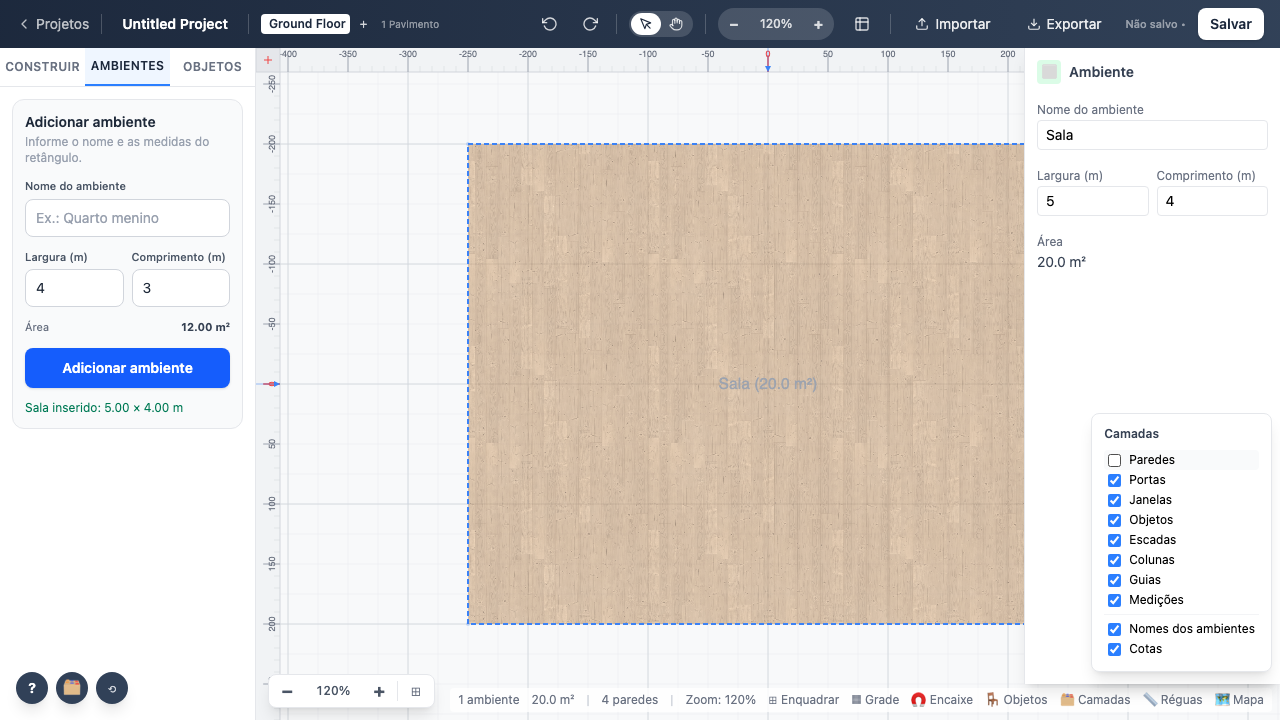
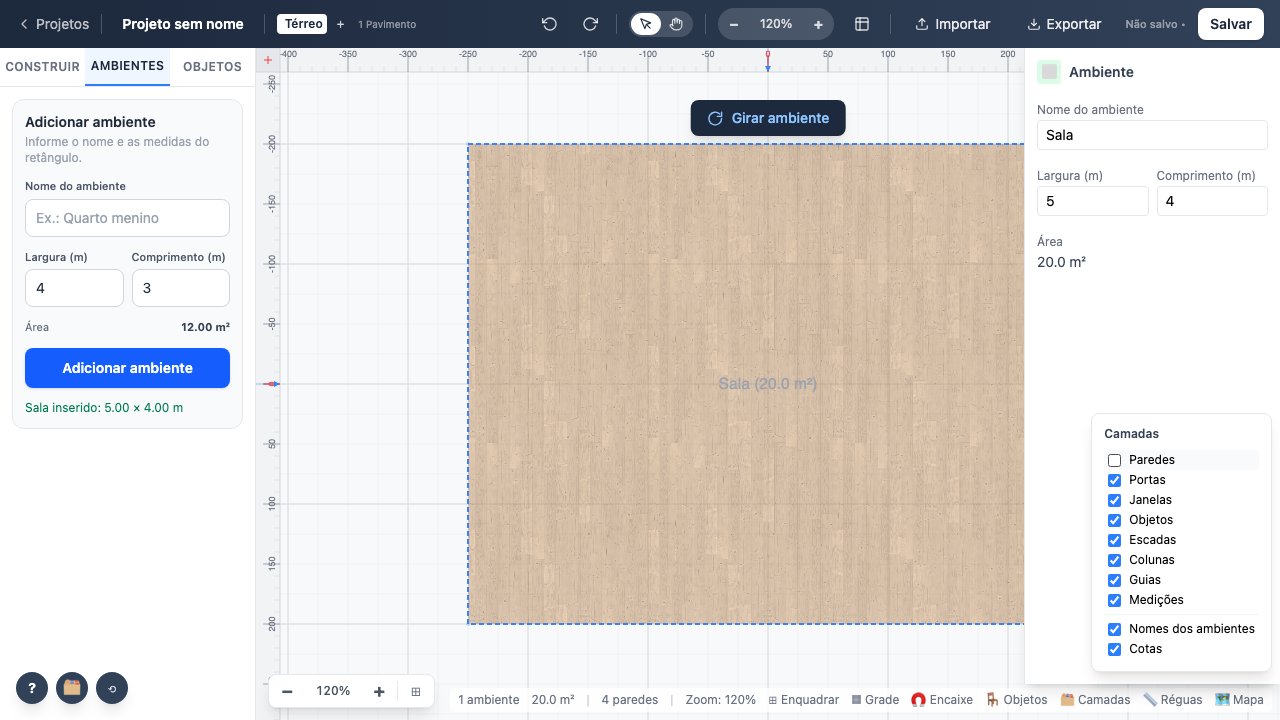
fix: achados 6 e 7 — botão de girar e textos de interface em inglês
- bboxDoAmbienteSelecionado() calcula a caixa pelo polígono do ambiente em vez
  de depender de getMultiSelectBBox(), que exige 2+ elementos selecionados. O
  botão de girar agora aparece assim que o ambiente é inserido, não só depois de
  clicar nele na planta.
- Untitled Project → Projeto sem nome, Ground Floor → Térreo, Floor N →
  Pavimento N, e o campo da paleta de comandos passa a PT-BR.

As categorias do catálogo seguem em inglês por virem de furnitureCatalog.ts —
somem na troca pelo catálogo SHC.

56 testes passando.

Changed region(s): [[0.5312, 0.1222, 0.6875, 0.2139], [0.0938, 0.0, 0.3438, 0.0611]]

diff --git a/tests/e2e/05-propriedades.spec.ts b/tests/e2e/05-propriedades.spec.ts
@@ -58,25 +58,24 @@ test.describe('Painel de propriedades', () => {
     await evidenciar(painel, AREA, 'medida-recusada');
   });
 
-  test('botão de girar só aparece depois de clicar no ambiente na planta', async ({ page }) => {
+  test('botão de girar aparece assim que o ambiente é inserido', async ({ page }) => {
     const { canvas } = await abrirEditor(page);
     await inserirAmbiente(page, 'Sala', 5, 4);
 
-    // Inserir pelo formulário seleciona o ambiente no painel, mas não monta a
-    // seleção completa das 4 paredes — o botão de girar depende dela.
-    await expect(page.getByRole('button', { name: 'Girar ambiente 90 graus' })).toBeHidden();
+    // A caixa vem do polígono do ambiente, não da seleção múltipla — inserir pelo
+    // formulário já basta.
+    await expect(page.getByRole('button', { name: 'Girar ambiente 90 graus' })).toBeVisible();
+    await evidenciar(page, AREA, 'botao-girar');
 
+    // E continua valendo depois de clicar nele na planta.
     const { x, y } = await centroDoCanvas(canvas);
     await page.mouse.click(x, y);
     await expect(page.getByRole('button', { name: 'Girar ambiente 90 graus' })).toBeVisible();
-    await evidenciar(page, AREA, 'botao-girar');
   });
 
   test('girar 90° troca largura por comprimento', async ({ page }) => {
-    const { canvas } = await abrirEditor(page);
+    await abrirEditor(page);
     await inserirAmbiente(page, 'Sala', 6, 3);
-    const { x, y } = await centroDoCanvas(canvas);
-    await page.mouse.click(x, y);
 
     const painel = page.locator('.fixed.right-0.top-12');
     const larguraAntes = await painel.locator('input[type="number"]').first().inputValue();

diff --git a/src/lib/components/editor/FloorPlanCanvas.svelte b/src/lib/components/editor/FloorPlanCanvas.svelte
@@ -123,6 +123,24 @@
   /**
    * Compute bounding box of all multi-selected elements.
    */
+  /**
+   * Caixa do ambiente selecionado, a partir do polígono dele.
+   *
+   * Não usa `getMultiSelectBBox` de propósito: inserir pelo formulário seleciona o
+   * ambiente mas não monta a seleção das 4 paredes, e o botão de girar sumia.
+   */
+  function bboxDoAmbienteSelecionado(): { minX: number; minY: number; maxX: number; maxY: number } | null {
+    if (!ui.currentSelectedRoomId || !ui.currentFloor) return null;
+    const ambiente = ui.currentFloor.rooms.find((r) => r.id === ui.currentSelectedRoomId)
+      ?? ui.detectedRooms.find((r) => r.id === ui.currentSelectedRoomId);
+    if (!ambiente) return null;
+    const poligono = getRoomPolygon(ambiente, ui.currentFloor.walls);
+    if (poligono.length < 3) return null;
+    const xs = poligono.map((p) => p.x);
+    const ys = poligono.map((p) => p.y);
+    return { minX: Math.min(...xs), maxX: Math.max(...xs), minY: Math.min(...ys), maxY: Math.max(...ys) };
+  }
+
   function getMultiSelectBBox(): { minX: number; minY: number; maxX: number; maxY: number } | null {
     if (ui.currentSelectedIds.size < 2 || !ui.currentFloor) return null;
     let minX = Infinity, minY = Infinity, maxX = -Infinity, maxY = -Infinity;
@@ -3227,7 +3245,7 @@
   ></canvas>
 
   {#if ui.currentSelectedRoomId && ui.currentFloor && ui.currentTool === 'select'}
-    {@const bbox = getMultiSelectBBox()}
+    {@const bbox = bboxDoAmbienteSelecionado()}
     {#if bbox}
       {@const pos = worldToScreen((bbox.minX + bbox.maxX) / 2, bbox.minY)}
       <button

diff --git a/src/lib/stores/project/estado.ts b/src/lib/stores/project/estado.ts
@@ -13,10 +13,10 @@ export function uid(): string {
 
 export function createDefaultFloor(level = 0): Floor {
   const id = uid();
-  return { id, name: level === 0 ? 'Ground Floor' : `Floor ${level}`, level, walls: [], rooms: [], doors: [], windows: [], furniture: [], stairs: [], columns: [], guides: [], measurements: [], annotations: [], textAnnotations: [], groups: [] };
+  return { id, name: level === 0 ? 'Térreo' : `Pavimento ${level}`, level, walls: [], rooms: [], doors: [], windows: [], furniture: [], stairs: [], columns: [], guides: [], measurements: [], annotations: [], textAnnotations: [], groups: [] };
 }
 
-export function createDefaultProject(name = 'Untitled Project'): Project {
+export function createDefaultProject(name = 'Projeto sem nome'): Project {
   const floor = createDefaultFloor();
   return {
     id: uid(),

diff --git a/tests/e2e/08-persistencia-exportacao.spec.ts b/tests/e2e/08-persistencia-exportacao.spec.ts
@@ -88,7 +88,7 @@ test.describe('Atalhos', () => {
   test('a paleta de comandos abre com Ctrl+K', async ({ page }) => {
     await abrirEditor(page);
     await page.keyboard.press('Control+k');
-    await expect(page.getByPlaceholder(/Search furniture|Buscar/)).toBeVisible();
+    await expect(page.getByPlaceholder(/Buscar objetos/)).toBeVisible();
     await evidenciar(page, AREA, 'paleta-comandos');
   });
 });

diff --git a/src/lib/components/editor/CommandPalette.svelte b/src/lib/components/editor/CommandPalette.svelte
@@ -130,7 +130,7 @@
           bind:value={query}
           onkeydown={onKeydown}
           class="flex-1 bg-transparent outline-none text-sm text-gray-800 placeholder-gray-400"
-          placeholder="Search furniture, tools, actions…"
+          placeholder="Buscar objetos, ferramentas, ações…"
           type="text"
           spellcheck="false"
         />

diff --git a/docs/ui/ACHADOS.md b/docs/ui/ACHADOS.md
@@ -60,27 +60,26 @@ fechar".
 **Correção:** `Escape` voltou ao tratador de teclado da página.
 **Teste:** `08-persistencia-exportacao.spec.ts` → "a lista de atalhos abre com ? e fecha com Esc".
 
-## Abertos
-
-### 6. Botão "Girar ambiente" depende de clicar no ambiente na planta
+### 6. Botão "Girar ambiente" só aparecia após clicar no ambiente na planta
 **Origem:** pré-existente · **Gravidade:** baixa (inconsistência)
 
-Inserir um ambiente pelo formulário define `selectedRoomId` — o painel de propriedades abre — mas
-não monta a seleção das 4 paredes. O botão de girar é condicionado a `getMultiSelectBBox()`, que
-exige `currentSelectedIds.size >= 2`. Resultado: logo após inserir, o ambiente está selecionado
-mas o botão de girar não aparece; ele só surge depois de clicar no ambiente na planta.
+Inserir pelo formulário define `selectedRoomId` — o painel de propriedades abre — mas não monta a
+seleção das 4 paredes. O botão era condicionado a `getMultiSelectBBox()`, que exige
+`currentSelectedIds.size >= 2`, então não aparecia.
 
-**Sugestão:** calcular a caixa a partir do polígono do ambiente selecionado, em vez de depender
-da seleção múltipla.
-**Documentado no teste** `05-propriedades.spec.ts` → "botão de girar só aparece depois de clicar
-no ambiente na planta" (o teste registra o comportamento atual, não o desejado).
+**Correção:** `bboxDoAmbienteSelecionado()` calcula a caixa a partir do polígono do ambiente,
+sem depender da seleção múltipla.
+**Teste:** `05-propriedades.spec.ts` → "botão de girar aparece assim que o ambiente é inserido".
 
-### 7. Textos de interface ainda em inglês
+### 7. Textos de interface em inglês
 **Origem:** pré-existente · **Gravidade:** baixa
 
-A paleta de comandos (`CommandPalette.svelte`) ainda usa `Search furniture, tools, actions…`, e as
-categorias do catálogo vêm em inglês (`Living Room`, `Electrical`, `Plumbing`) porque saem direto
-de `furnitureCatalog.ts`. O padrão do projeto é PT-BR (`CLAUDE.md` §2, item 5).
+**Correção:** `Untitled Project` → `Projeto sem nome`, `Ground Floor` → `Térreo`,
+`Floor N` → `Pavimento N`, e o campo da paleta de comandos → `Buscar objetos, ferramentas, ações…`.
 
-**Nota:** as categorias somem sozinhas na troca do catálogo de móveis pelo de equipamentos SHC
-(`CLAUDE.md` §7, passo 2).
+Restam as **categorias do catálogo** (`Living Room`, `Electrical`, `Plumbing`), que saem direto de
+`furnitureCatalog.ts` e somem sozinhas na troca pelo catálogo SHC (`CLAUDE.md` §7, passo 2).
+
+## Abertos
+
+Nenhum.

diff --git a/docs/ui/01-abertura/documento.md b/docs/ui/01-abertura/documento.md
@@ -9,8 +9,8 @@ Rota `/editor`. Sem `?id=`, cria um projeto novo, grava e corrige a URL com `his
 | Parâmetro | Valor | Onde vive | Observação |
 |---|---|---|---|
 | `?id=` | slug de 8 caracteres | URL | Ausente ou desconhecido → cria projeto novo |
-| Nome inicial | `Untitled Project` | `createDefaultProject()` | ⚠ ainda em inglês |
-| Pavimento inicial | `Ground Floor`, nível 0 | `createDefaultFloor()` | ⚠ ainda em inglês |
+| Nome inicial | `Projeto sem nome` | `createDefaultProject()` | — |
+| Pavimento inicial | `Térreo`, nível 0 | `createDefaultFloor()` | — |
 | Estado vazio | "Comece a planta da sua casa" | `FloorPlanCanvas` | Some quando existe parede, objeto ou porta |
 | Debounce do auto-save | 500 ms | `routes/editor/+page.svelte` | Com flush ao sair — ver achado 4 |
 

diff --git a/docs/ui/02-barra-superior/documento.md b/docs/ui/02-barra-superior/documento.md
@@ -9,7 +9,7 @@
 
 | Parâmetro | Padrão | Faixa / opções | Persistência |
 |---|---|---|---|
-| Nome do projeto | `Untitled Project` | texto livre | `localStorage` (auto-save) |
+| Nome do projeto | `Projeto sem nome` | texto livre | `localStorage` (auto-save) |
 | Pavimentos | 1 | ≥ 1 — o último não pode ser excluído | projeto |
 | Zoom | 100 % | 10 % a 1000 %, passo ×1,25 | store `canvasZoom` |
 | Modo do ponteiro | Selecionar | Selecionar \| Mão | store `panMode` |
